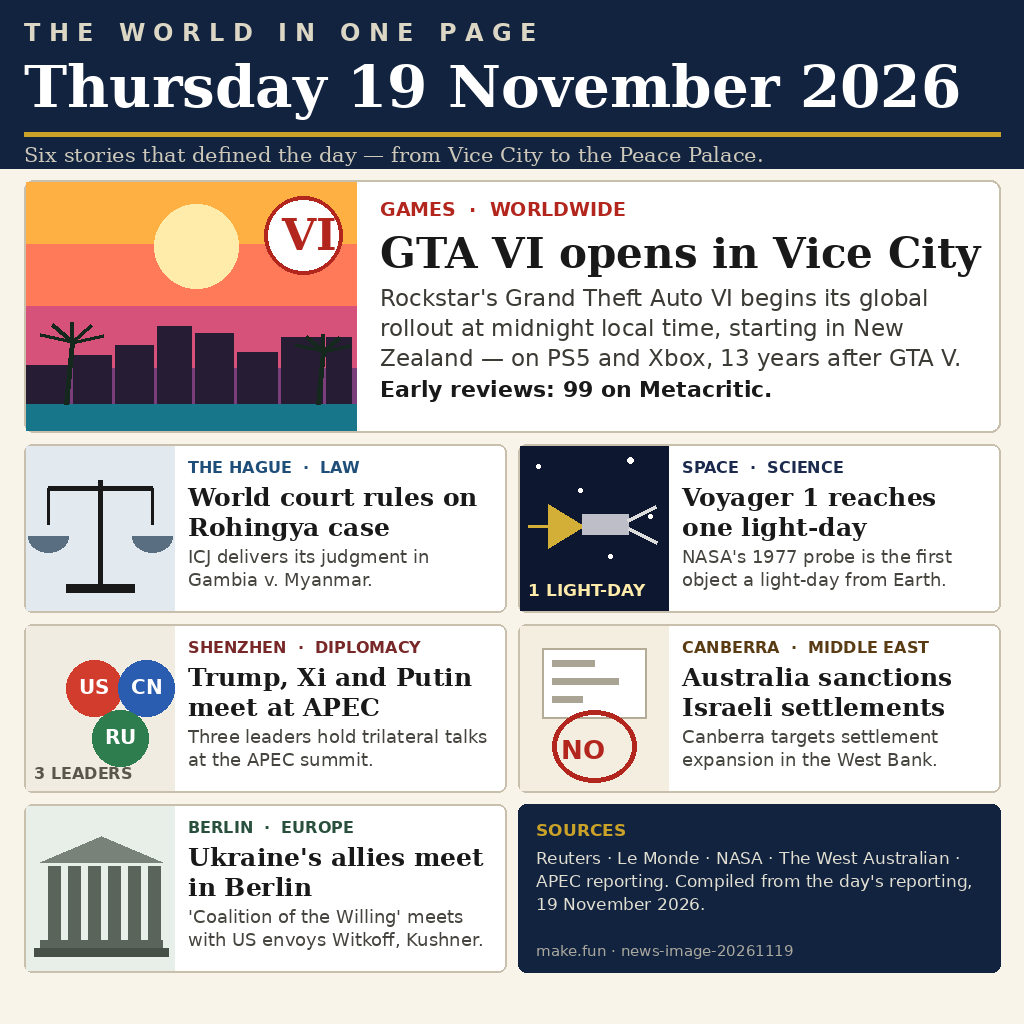
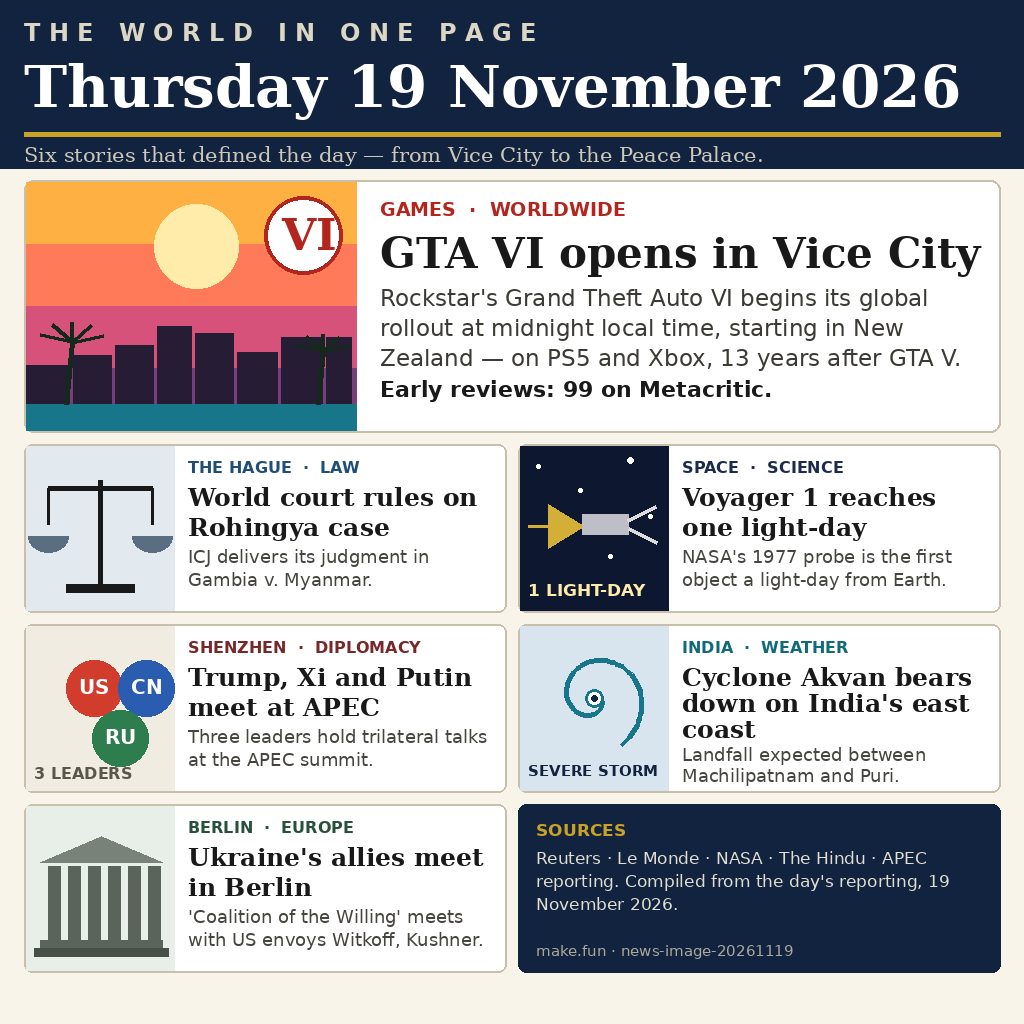
News image: replace 18 Nov Australia sanctions panel with Cyclone Akvan (19 Nov)
The Australia sanctions story was announced 18 Nov, not 19 Nov.
New panel: Cyclone Akvan bearing down on India's east coast, landfall
expected between Machilipatnam and Puri (The Hindu / APSDMA, 19 Nov).
Sources line now cites The Hindu instead of The West Australian.

Changed region(s): [[0.5, 0.5938, 0.9688, 0.7812], [0.5312, 0.8125, 0.9375, 0.9062]]

diff --git a/main.ts b/main.ts
@@ -3,7 +3,7 @@
 // The image is drawn programmatically (Python PIL, DejaVu fonts): masthead with
 // the date, a lead panel on the GTA VI global rollout, and five panels — the
 // ICJ Rohingya ruling, Voyager 1's light-day, the APEC trilateral in Shenzhen,
-// Australia's sanctions on Israeli settlements, and the Berlin Ukraine meeting.
+// Cyclone Akvan bearing down on India's east coast, and the Berlin Ukraine meeting.
 // Outside the grader's container, MAKEFUN_OUTPUT_DIR stands in for /output:
 //   mkdir -p out && MAKEFUN_OUTPUT_DIR=out node main.ts
 

diff --git a/README.md b/README.md
@@ -4,7 +4,7 @@
 [![rank](https://make.fun/badge/news-image-20261119/xLonely1/news-19-nov-2026/rank.svg)](https://make.fun/bounty/news-image-20261119/leaderboard?utm_source=github&utm_medium=readme&utm_campaign=news-image-20261119)
 [![reward](https://make.fun/badge/news-image-20261119/xLonely1/news-19-nov-2026/reward.svg)](https://make.fun/bounty/news-image-20261119?utm_source=github&utm_medium=readme&utm_campaign=news-image-20261119)
 
-One image that sums up Thursday 19 November 2026: the GTA VI global rollout, the ICJ's Rohingya genocide ruling, Voyager 1 reaching one light-day, the Trump–Xi–Putin trilateral at APEC in Shenzhen, Australia's sanctions on Israeli settlements, and the Ukraine allies' meeting in Berlin — drawn as a one-page front page with the date named in the masthead.
+One image that sums up Thursday 19 November 2026: the GTA VI global rollout, the ICJ's Rohingya genocide ruling, Voyager 1 reaching one light-day, the Trump–Xi–Putin trilateral at APEC in Shenzhen, Cyclone Akvan bearing down on India's east coast, and the Ukraine allies' meeting in Berlin — drawn as a one-page front page with the date named in the masthead.
 
 ## Run it
 
